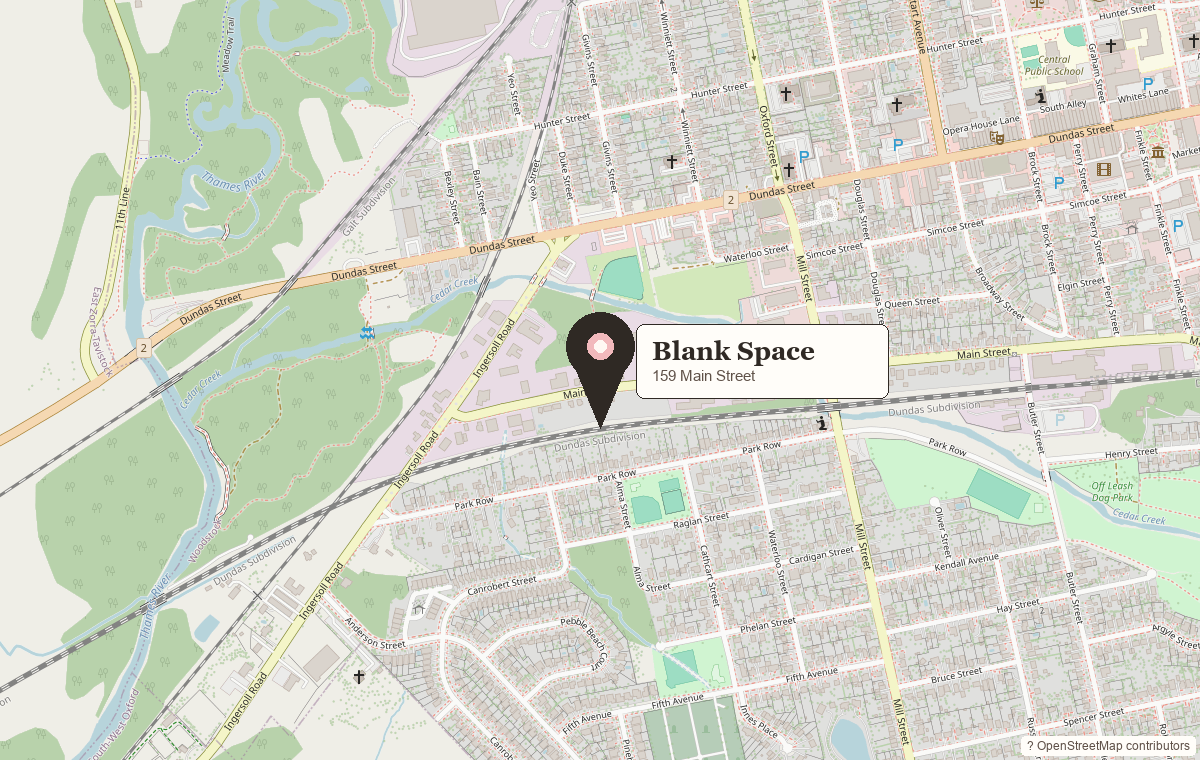
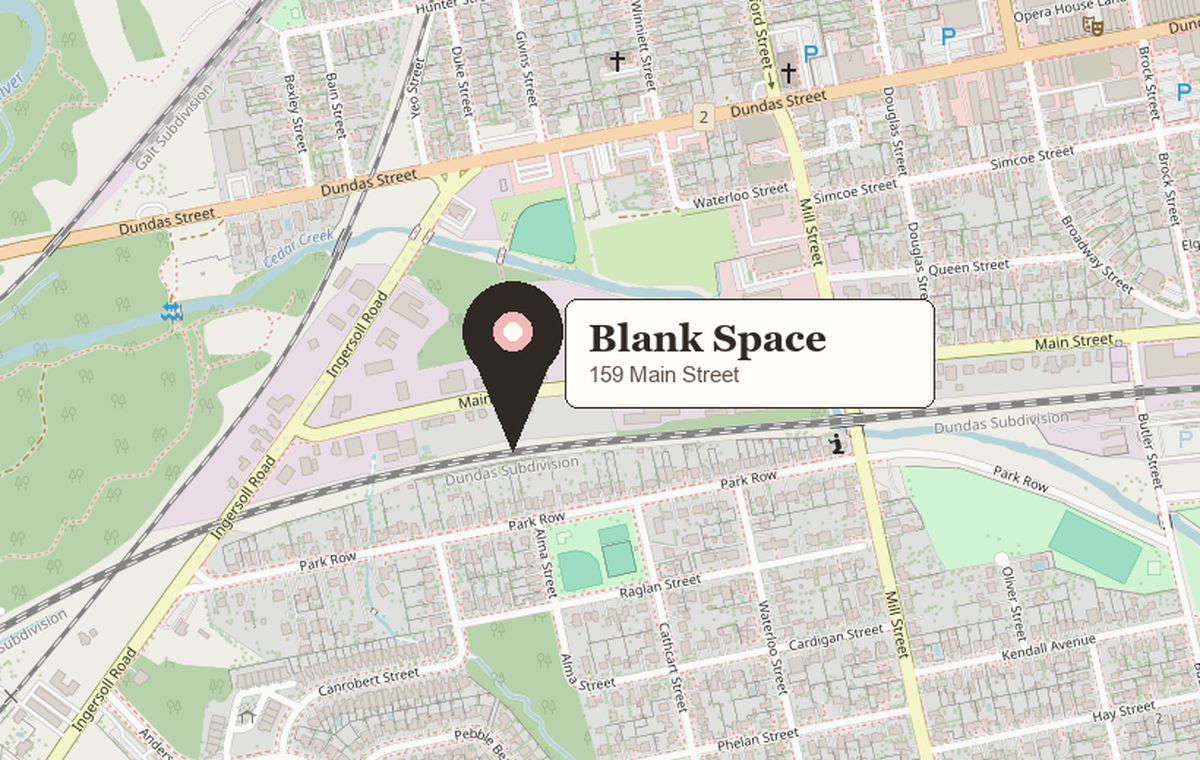
Zoom contact map for clearer street labels

diff --git a/site-redesign/contact.html b/site-redesign/contact.html
@@ -57,7 +57,7 @@
             <h2 id="map-heading">On Main Street, close to the heart of Woodstock.</h2>
             <p class="lead">Blank Space sits near downtown Woodstock, with Cedar Creek parkland to the west and easy access from Dundas Street, Ingersoll Avenue, and Highway 59.</p>
             <div class="actions">
-              <a class="button secondary" href="https://www.openstreetmap.org/?mlat=43.125887&amp;mlon=-80.769466#map=16/43.125887/-80.769466" target="_blank" rel="noopener">Open Map</a>
+              <a class="button secondary" href="https://www.openstreetmap.org/?mlat=43.125887&amp;mlon=-80.769466#map=17/43.125887/-80.769466" target="_blank" rel="noopener">Open Map</a>
             </div>
           </div>
           <figure class="map-frame reveal">

diff --git a/site-redesign/styles.css b/site-redesign/styles.css
@@ -1448,6 +1448,22 @@ textarea {
     font-size: clamp(2rem, 8.6vw, 2.82rem);
   }
 
+  .map-frame {
+    aspect-ratio: 4 / 3;
+    overflow: hidden;
+    border-radius: var(--radius);
+    box-shadow: 0 24px 54px rgba(47, 41, 36, 0.1);
+  }
+
+  .map-frame img {
+    height: 100%;
+    object-fit: cover;
+    object-position: center;
+    border: 0;
+    border-radius: 0;
+    box-shadow: none;
+  }
+
   .page-hero h1 {
     font-size: clamp(2.32rem, 9.8vw, 3.08rem);
   }
